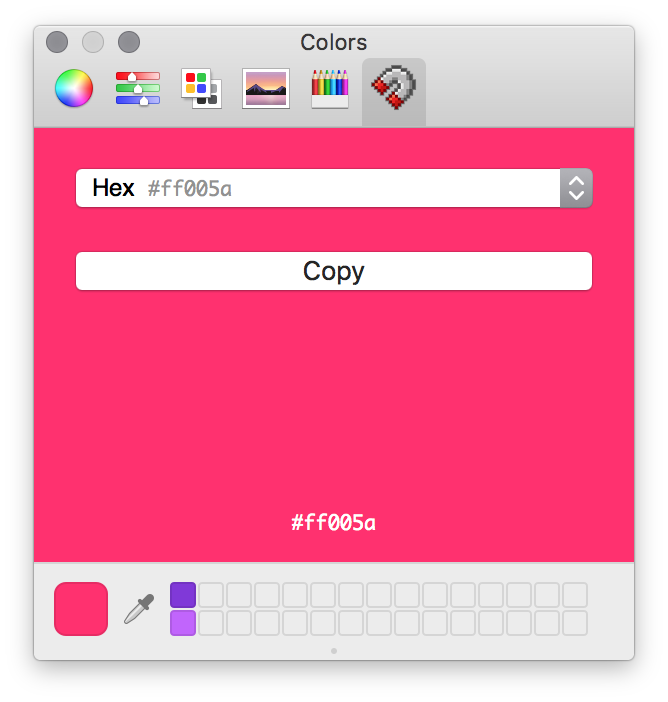
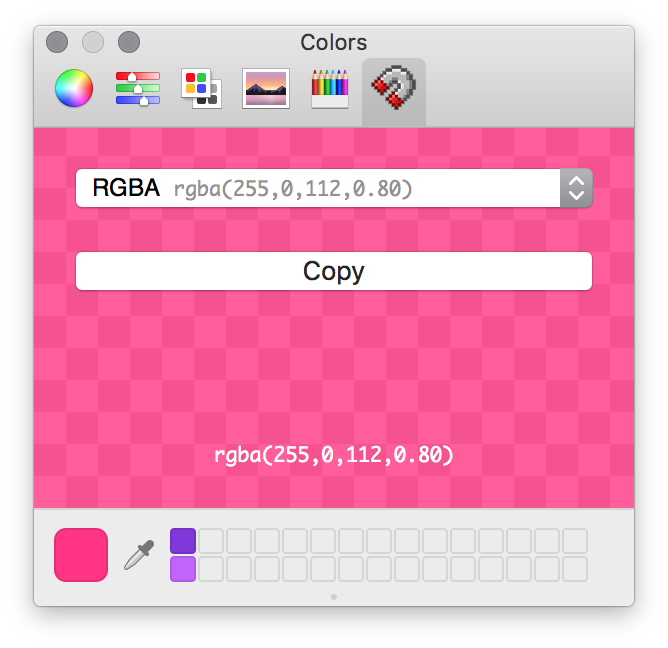
color picker 1.0.2

diff --git a/code/colorpicker/index.html b/code/colorpicker/index.html
@@ -25,7 +25,7 @@
   <p>Screenshot:</p>
 
   <div>
-    <img src="rmr-color-picker.png" alt="Screenshot" width="334" height="351" class="screenshot">
+    <img src="rmr-color-picker.png" alt="Screenshot" width="334" height="324" class="screenshot">
   </div>
 
   <h2>Install</h2>
@@ -35,9 +35,17 @@
 
   <pre>curl -O http://readmeansrun.com/code/dist/RMRColorPicker.colorPicker.zip
 unzip RMRColorPicker.colorPicker.zip
-mv RMRColorPicker.colorPicker ~/Library/ColorPickers</pre>
+mv RMRColorPicker.colorPicker ~/Library/ColorPickers
+rm -Rf RMRColorPicker.colorPicker.zip __MACOSX
+</pre>
 
   <h2>Version History</h2>
+  <dl>
+    <dt id="v1.0.2">v1.0.2 <a href="#v1.0.2">#</a></dt>
+    <dd>Transparency support</dd>
+    <dd>Initial support of pasting color declarations into textfield</dd>
+    <dd>Add link to project&rsquo;s homepage</dd>
+  </dl>
   <dl>
     <dt id="v1.0.1">v1.0.1 <a href="#v1.0.1">#</a></dt>
     <dd>Add color declaration example &amp; tooltip to popup menu title</dd>
